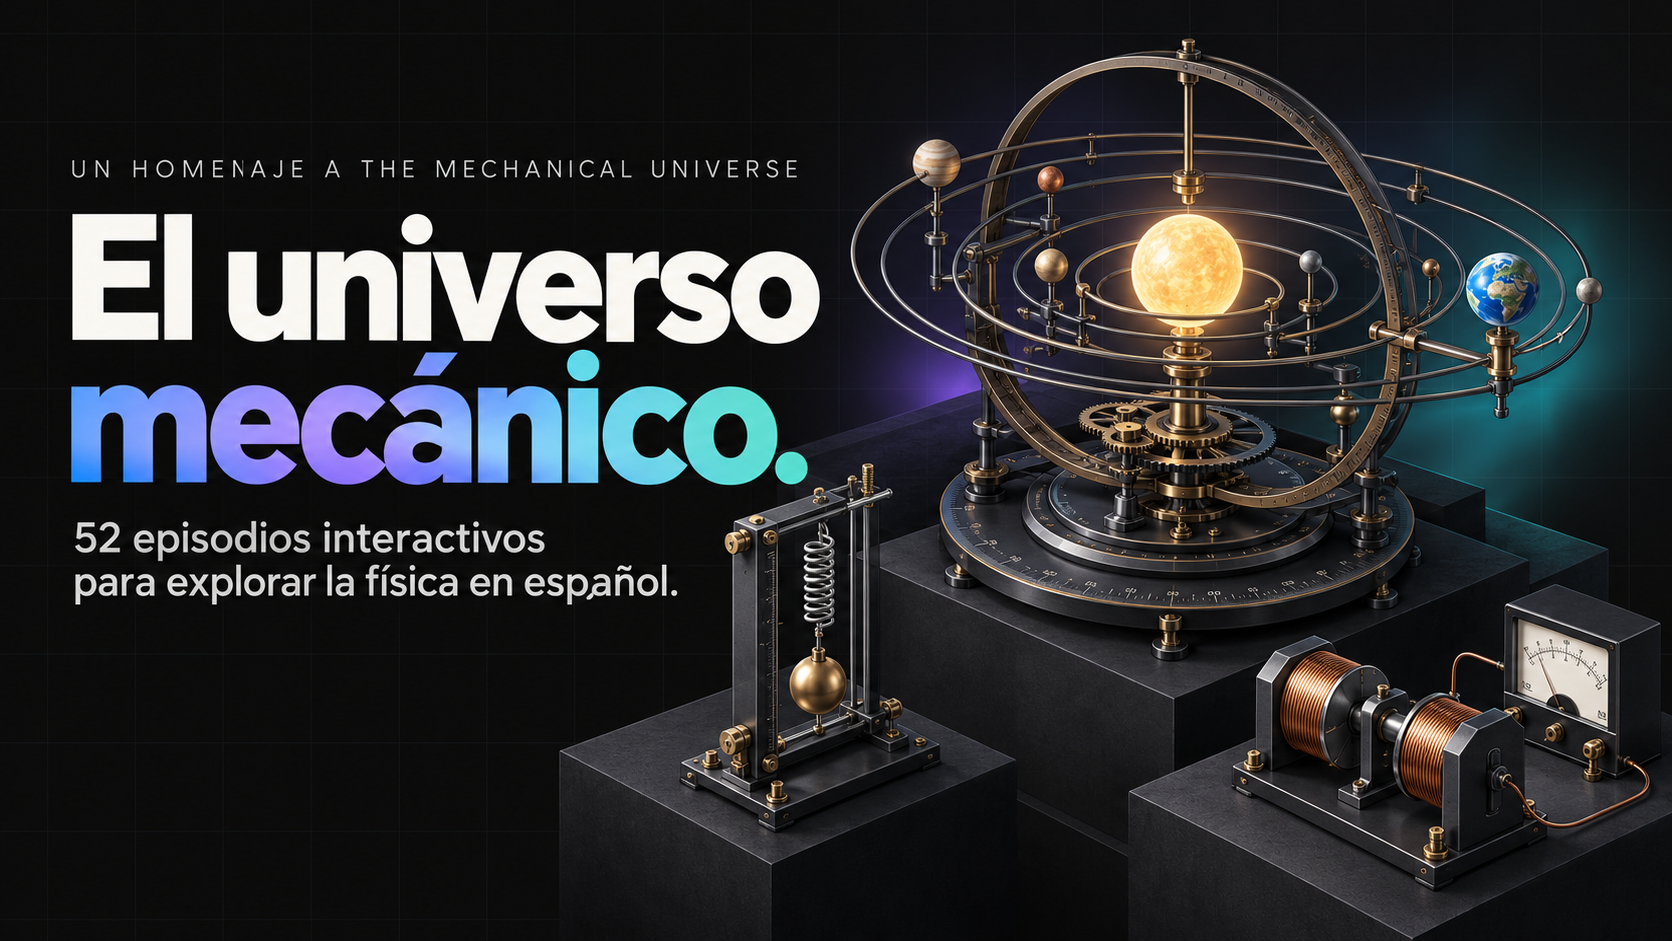
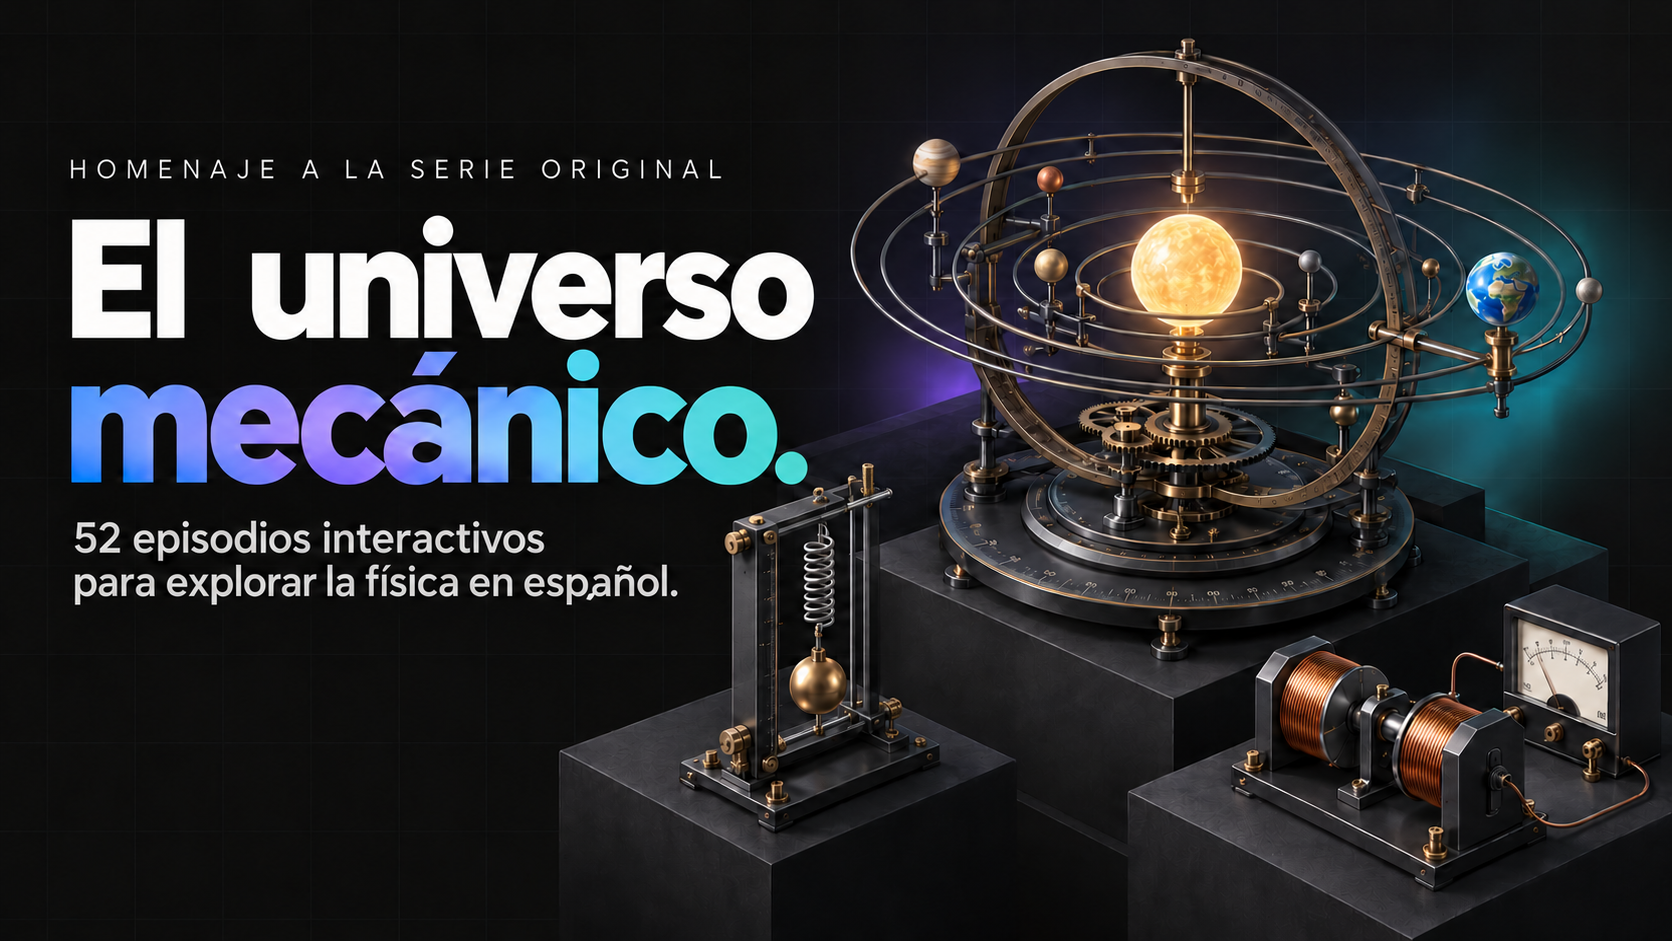
Corrige el español y el espaciado de la portada

diff --git a/assets/homenaje-prompt.md b/assets/homenaje-prompt.md
@@ -2,24 +2,38 @@
 
 Imagen: [homenaje-universo-mecanico.png](homenaje-universo-mecanico.png).
 
-Generada con la herramienta integrada `image_gen`. Ilustración panorámica original para la cabecera del README, con el estilo oscuro de los episodios y texto en español.
+Corregida con la herramienta integrada `image_gen`: texto íntegramente en español, contornos nítidos y separación clara entre «El» y «universo». Conserva la composición panorámica, los instrumentos y el estilo oscuro de la colección.
 
-El homenaje se refiere a [The Mechanical Universe… and Beyond](https://www.its.caltech.edu/~tmu/), la serie educativa de Caltech e INTELECOM. Los instrumentos ilustrados evocan el contenido de esta colección.
+El homenaje se refiere a [The Mechanical Universe… and Beyond](https://www.its.caltech.edu/~tmu/), la serie educativa de Caltech e INTELECOM.
 
-## Prompt de generación
+## Texto de la portada
+
+- HOMENAJE A LA SERIE ORIGINAL
+- El universo
+- mecánico.
+- 52 episodios interactivos
+- para explorar la física en español.
+
+## Prompt de corrección
 
 ```text
-Use case: stylized-concept.
-Asset type: final widescreen 16:9 illustrated banner at the very top of the GitHub README of the Spanish educational project "El universo mecánico". Make a polished 2048 × 1152 landscape image.
-Primary request: a respectful, beautiful tribute to the physics teaching series The Mechanical Universe and to this collection of 52 interactive Spanish physics episodes, closely matching the collection's modern dark isometric laboratory aesthetic.
-Composition: generous safe margins on every edge. Large editorial typography in the left 44%, original isometric physics apparatus in the right 56%, balanced like a premium educational book cover. No UI widgets or screenshot framing. Typography must remain legible when the banner is displayed at 800 pixels wide.
-Backdrop: almost-black #0a0a0a, neutral charcoal #161616 and #232323. Very faint square grid at about 64-pixel spacing. Soft restrained blurred violet and turquoise light only behind the apparatus. Keep the dominant background neutral BLACK, never navy blue.
-Subject: a beautifully assembled, mechanically plausible gallery on dark graphite plinths. A grand mechanical orrery is the dominant object, with nested thin dark steel orbital rings, a small warm golden Sun, a blue Earth and precisely machined support arms. A small mass-spring or pendulum instrument and a copper-coil electromagnetic induction apparatus with an analog meter form supporting elements toward the lower right. These represent mechanics, waves and electromagnetism across the collection. All instruments are grounded on their plinths, fine joints, engraved scales, visible fasteners and carefully drawn bevels, no floating components.
-Style: highly crafted isometric technical illustration with crisp fine light-gray contour lines, restrained four-tone solid shading, refined SVG-like geometry, soft ambient shadows, matte graphite, dark steel and occasional functional copper. Echo museum teaching apparatus interpreted through contemporary editorial design. Some small functional accents of blue #80b8ff, violet #b7a0ff and turquoise #65dccb. Avoid photorealistic plastic or videogame rendering.
-Text, verbatim, in Spanish with correct accents:
-Top small eyebrow: "UN HOMENAJE A THE MECHANICAL UNIVERSE"
-Main title on two separate lines: "El universo" then "mecánico."
-The first title line is warm white. The second title line has a smooth blue-to-violet-to-turquoise gradient. Heavy clean modern sans-serif, very large, confident, tight but readable spacing.
-Below title, a clearly readable smaller subtitle on two lines if necessary: "52 episodios interactivos" and "para explorar la física en español."
-No other text. Do not add equations, a logo, institutional seals, a watermark, stars, galaxies, people, borders, controls, buttons or additional labels. This is an original tribute illustration, not a copy of a TV poster or a claim of institutional affiliation.
+Use case: text-localization / precise typography correction.
+Edit target: the supplied existing widescreen tribute banner.
+Preserve the composition, black and charcoal background, faint grid, blue-violet-turquoise title gradient, light accents, original mechanical orrery, mass-spring instrument, copper coils, graphite plinths, shadows and camera. Change ONLY the lettering in the left text area. Keep the apparatus on the right unchanged.
+Replace ALL the existing lettering in the left text area with clean, correctly spelled Spanish text EXACTLY as follows:
+Small heading: "HOMENAJE A LA SERIE ORIGINAL"
+Large main title, first line: "El universo"
+Large main title, second line: "mecánico."
+Subtitle, first line: "52 episodios interactivos"
+Subtitle, second line: "para explorar la física en español."
+There must be a clear normal word space between "El" and "universo": these are two separate words, never "Eluniverso". Keep the u of universo lowercase.
+Accents are mandatory and must be sharply drawn: mecánico has á; física has í; español has ñ. Render exactly the specified wording. The heading is entirely Spanish, with no "The Mechanical Universe" or other English words.
+Typography must look professionally typeset with a clean bold sans-serif: flat solid fills, precise geometric character shapes, crisp smooth contours and correct kerning. No blur, no glow on letters, no motion blur, no grain or paint texture within letters, no soft ghosting, no duplicate outlines, no warped letters. The first title line is warm white and the second has the original smooth blue-violet-turquoise gradient, contained sharply inside the glyphs. Use generous separation between words, lines and subtitle, and avoid touching the instruments. Text should be razor-sharp and readable at README display size. Keep the 16:9 panoramic framing and export at high resolution, preferably 2560 × 1440 or higher, without artificial sharpening halos. Do not introduce any new lettering or change the instruments.
+```
+
+## Ajuste del espaciado
+
+```text
+Edit this banner with ONE very specific typography correction. Erase and re-typeset ONLY the white first main-title line. It must read "El universo", with a conspicuous, proper word space. The existing image reads like "Eluniverso" because the l and u nearly touch. Separate these two words with at least 60 pixels of completely empty horizontal space at the current 1672-pixel canvas width. This is a word space, not letter tracking. Reduce the font size of this first line about 8 percent if needed so the entire phrase still fits in the original left text column, ending before x = 820. Keep both words on the same baseline. The u must be lowercase. Use crisp, professionally typeset solid white bold sans-serif glyphs with clean precise edges, no blur or texture. Maintain the left alignment at x = 70.
+Everything else is already correct and must remain unchanged: "HOMENAJE A LA SERIE ORIGINAL"; the gradient "mecánico."; "52 episodios interactivos"; "para explorar la física en español."; the Spanish accents; the instruments; the black grid background; the colors; the composition; and the widescreen framing. Change no other text or pixels except the immediate area of the first white title line.
 ```

diff --git a/README.md b/README.md
@@ -1,4 +1,4 @@
-![El universo mecánico: homenaje a The Mechanical Universe, con un planetario mecánico, un oscilador y bobinas de inducción sobre un fondo oscuro.](assets/homenaje-universo-mecanico.png)
+![El universo mecánico: homenaje a la serie original. 52 episodios interactivos para explorar la física en español. Planetario mecánico, oscilador y bobinas de inducción sobre un fondo oscuro.](assets/homenaje-universo-mecanico.png)
 
 # El universo mecánico
 
